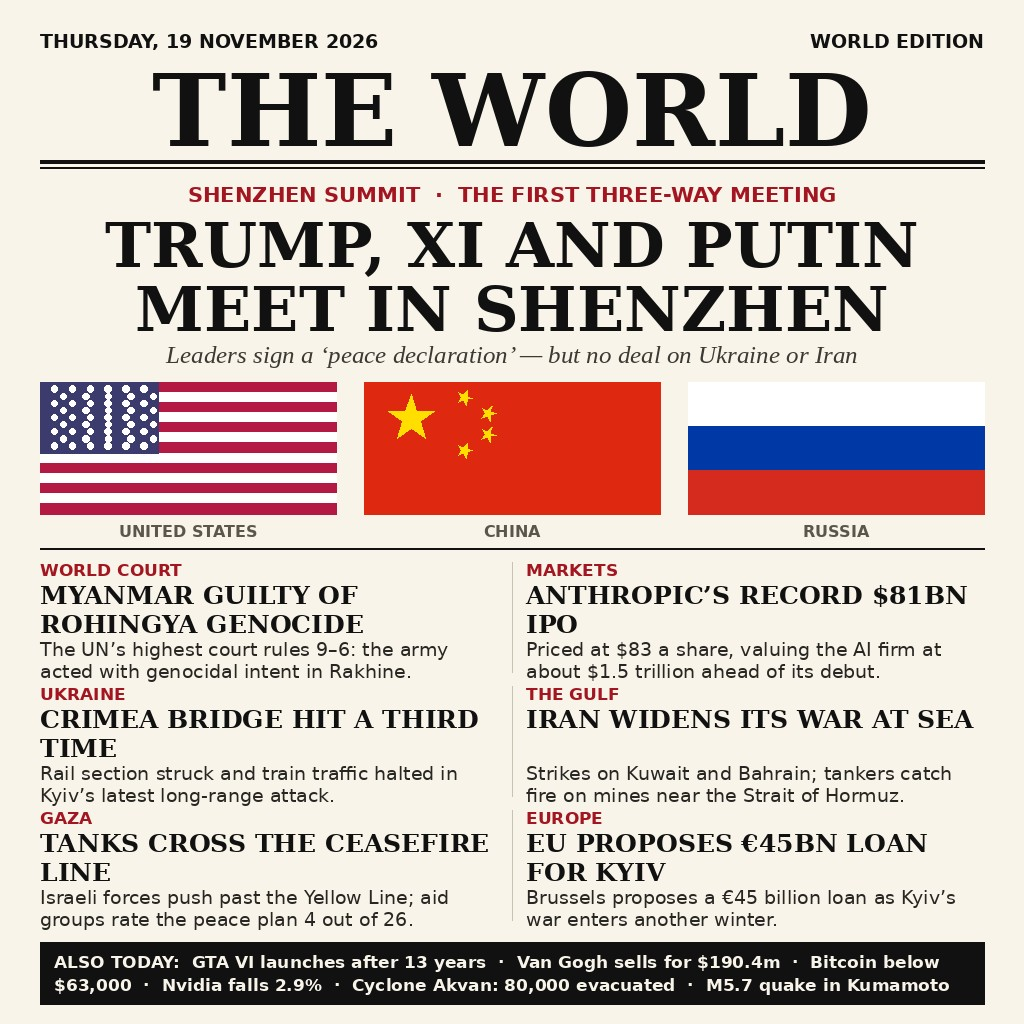
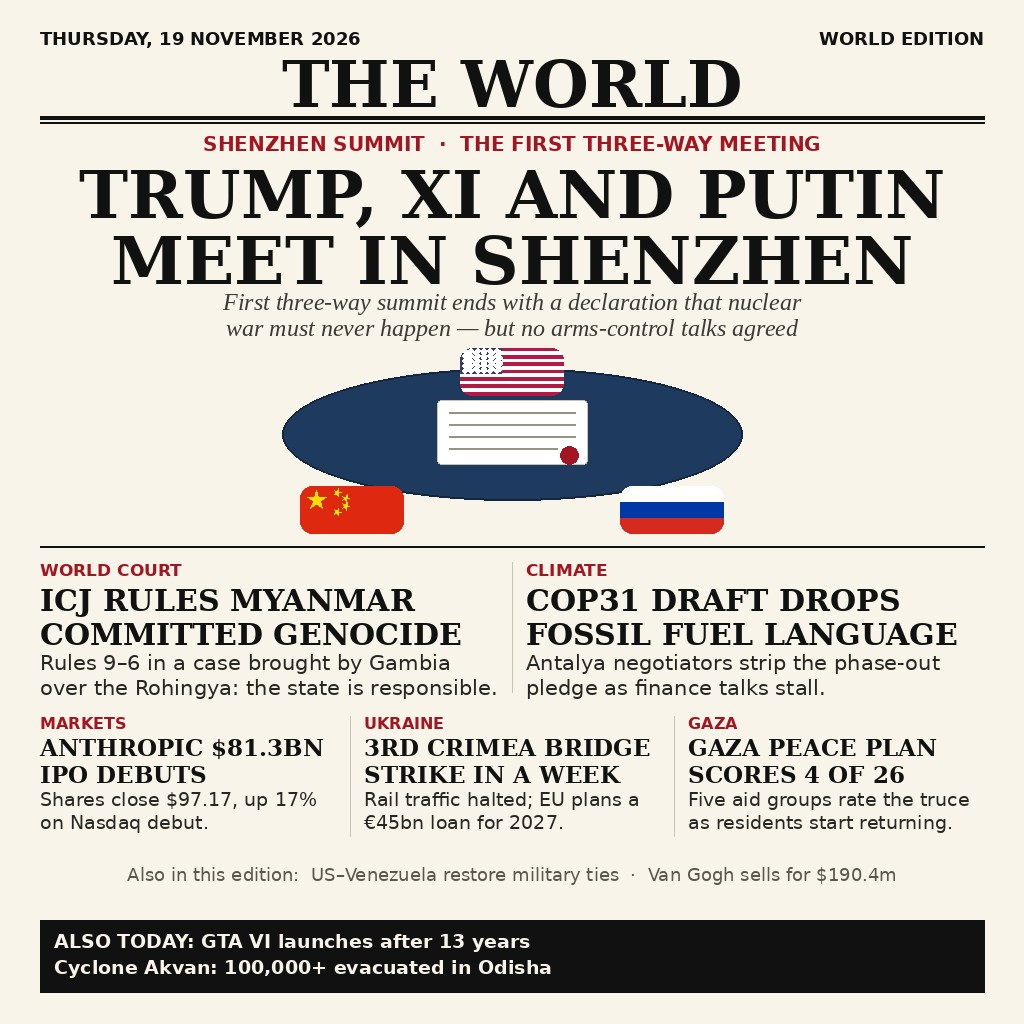
news-image-20261119 v2: 1+2+3 hierarchy, COP31 + Rohingya promoted, table illustration, corrected facts

diff --git a/gen_image.py b/gen_image.py
@@ -1,5 +1,11 @@
 #!/usr/bin/env python3
-"""Generate entry.png: a newspaper front page summing up Thursday 19 November 2026.
+"""Generate entry.png (v2): a newspaper front page summing up Thursday 19 November 2026.
+
+Design: smaller masthead so the lead wins; the summit is shown as one editorial
+illustration (a round table seen from above, three flag-coloured chairs, a
+declaration sheet in the middle) instead of three flag panels; hierarchy 1 + 2 + 3
+(one lead, two secondary stories, three short summaries); every headline carries
+the development, not just the topic; a two-item ticker.
 
 Deterministic: fixed strings, fixed geometry, no randomness, no network.
 Saves JPEG data (quality 90) under the name entry.png, under 1 MiB, 1024x1024.
@@ -44,6 +50,13 @@ def wrap(draw, text, fnt, max_width):
     return lines
 
 
+def fit(draw, text, fnt, max_width):
+    """wrap() that refuses to ship a truncated line: max 2 lines, or fail loudly."""
+    lines = wrap(draw, text, fnt, max_width)
+    assert len(lines) <= 2, f"text overflows 2 lines: {text!r} -> {lines}"
+    return lines
+
+
 def center(draw, y, text, fnt, fill=INK, width=W):
     draw.text(((width - draw.textlength(text, font=fnt)) / 2, y), text, font=fnt, fill=fill)
 
@@ -57,34 +70,37 @@ def star_points(cx, cy, r_outer, r_inner, rot=-90.0):
     return pts
 
 
-def draw_us_flag(draw, x, y, w, h):
-    stripe = h / 13.0
-    for i in range(13):
-        c = (179, 25, 66) if i % 2 == 0 else (255, 255, 255)
-        draw.rectangle([x, y + i * stripe, x + w, y + (i + 1) * stripe], fill=c)
-    cw, ch = w * 0.4, stripe * 7
-    draw.rectangle([x, y, x + cw, y + ch], fill=(60, 59, 110))
-    for row in range(9):
-        n = 6 if row % 2 == 0 else 5
-        for col in range(n):
-            cx = x + cw * (0.12 + 0.76 * col / 5.0) if n == 6 else x + cw * (0.20 + 0.76 * col / 4.0)
-            cy = y + ch * (0.10 + 0.80 * row / 8.0)
-            r = 3.2
-            draw.ellipse([cx - r, cy - r, cx + r, cy + r], fill=(255, 255, 255))
-
-
-def draw_cn_flag(draw, x, y, w, h):
-    draw.rectangle([x, y, x + w, y + h], fill=(222, 41, 16))
-    yellow = (255, 222, 0)
-    draw.polygon(star_points(x + w * 0.16, y + h * 0.28, 24, 24 * 0.382), fill=yellow)
-    for sx, sy, sr in [(0.34, 0.12, 8), (0.42, 0.24, 8), (0.42, 0.40, 8), (0.34, 0.52, 8)]:
-        draw.polygon(star_points(x + w * sx, y + h * sy, sr, sr * 0.382, rot=-70), fill=yellow)
-
-
-def draw_ru_flag(draw, x, y, w, h):
-    third = h / 3.0
-    for i, c in enumerate([(255, 255, 255), (0, 57, 166), (213, 43, 30)]):
-        draw.rectangle([x, y + i * third, x + w, y + (i + 1) * third], fill=c)
+def flag_tile(w, h, kind):
+    """A chair tile (w x h) painted with one country's flag, rounded corners."""
+    tile = Image.new("RGB", (w, h))
+    d = ImageDraw.Draw(tile)
+    if kind == "us":
+        stripe = h / 13.0
+        for i in range(13):
+            c = (179, 25, 66) if i % 2 == 0 else (255, 255, 255)
+            d.rectangle([0, i * stripe, w, (i + 1) * stripe], fill=c)
+        cw, ch = w * 0.4, stripe * 7
+        d.rectangle([0, 0, cw, ch], fill=(60, 59, 110))
+        for row in range(9):
+            n = 6 if row % 2 == 0 else 5
+            for col in range(n):
+                cx = cw * (0.12 + 0.76 * col / 5.0) if n == 6 else cw * (0.20 + 0.76 * col / 4.0)
+                cy = ch * (0.10 + 0.80 * row / 8.0)
+                r = 2.6
+                d.ellipse([cx - r, cy - r, cx + r, cy + r], fill=(255, 255, 255))
+    elif kind == "cn":
+        d.rectangle([0, 0, w, h], fill=(222, 41, 16))
+        d.polygon(star_points(w * 0.16, h * 0.30, 10, 10 * 0.382), fill=(255, 222, 0))
+        for sx, sy, sr in [(0.36, 0.14, 4), (0.44, 0.26, 4), (0.44, 0.42, 4), (0.36, 0.54, 4)]:
+            d.polygon(star_points(w * sx, h * sy, sr, sr * 0.382, rot=-70), fill=(255, 222, 0))
+    else:  # ru
+        third = h / 3.0
+        for i, c in enumerate([(255, 255, 255), (0, 57, 166), (213, 43, 30)]):
+            d.rectangle([0, i * third, w, (i + 1) * third], fill=c)
+    mask = Image.new("L", (w, h), 0)
+    ImageDraw.Draw(mask).rounded_rectangle([0, 0, w - 1, h - 1], radius=12, fill=255)
+    tile.putalpha(mask)
+    return tile
 
 
 def main():
@@ -92,89 +108,115 @@ def main():
     d = ImageDraw.Draw(img)
     inner = W - 2 * MARGIN  # 944
 
-    # ---- masthead ----
-    f_top = font(SANS_B, 19)
-    d.text((MARGIN, 30), "THURSDAY, 19 NOVEMBER 2026", font=f_top, fill=INK)
+    # ---- masthead (smaller, so the lead wins) ----
+    f_top = font(SANS_B, 18)
+    d.text((MARGIN, 28), "THURSDAY, 19 NOVEMBER 2026", font=f_top, fill=INK)
     right = "WORLD EDITION"
-    d.text((W - MARGIN - d.textlength(right, font=f_top), 30), right, font=f_top, fill=INK)
-    f_mast = font(SERIF_B, 100)
-    center(d, 52, "THE WORLD", f_mast)
-    d.rectangle([MARGIN, 160, W - MARGIN, 163], fill=INK)
-    d.rectangle([MARGIN, 167, W - MARGIN, 168], fill=INK)
+    d.text((W - MARGIN - d.textlength(right, font=f_top), 28), right, font=f_top, fill=INK)
+    f_mast = font(SERIF_B, 64)
+    center(d, 46, "THE WORLD", f_mast)
+    d.rectangle([MARGIN, 116, W - MARGIN, 119], fill=INK)
+    d.rectangle([MARGIN, 122, W - MARGIN, 123], fill=INK)
 
     # ---- lead headline ----
-    f_kick = font(SANS_B, 21)
-    center(d, 182, "SHENZHEN SUMMIT  ·  THE FIRST THREE-WAY MEETING", f_kick, fill=RED)
-    f_head = font(SERIF_B, 62)
-    center(d, 208, "TRUMP, XI AND PUTIN", f_head)
-    center(d, 272, "MEET IN SHENZHEN", f_head)
-    f_sub = font(SERIF_I, 25)
-    sub = "Leaders sign a \u2018peace declaration\u2019 \u2014 but no deal on Ukraine or Iran"
-    center(d, 340, sub, f_sub, fill=(60, 58, 52))
+    f_kick = font(SANS_B, 20)
+    center(d, 132, "SHENZHEN SUMMIT  \u00b7  THE FIRST THREE-WAY MEETING", f_kick, fill=RED)
+    f_head = font(SERIF_B, 66)
+    center(d, 156, "TRUMP, XI AND PUTIN", f_head)
+    center(d, 222, "MEET IN SHENZHEN", f_head)
+    f_sub = font(SERIF_I, 24)
+    center(d, 288, "First three-way summit ends with a declaration that nuclear", f_sub, fill=(60, 58, 52))
+    center(d, 314, "war must never happen \u2014 but no arms-control talks agreed", f_sub, fill=(60, 58, 52))
 
-    # ---- three flags ----
-    fy, fw, fh = 382, 296, 132
-    gap = (inner - 3 * fw) // 2
-    draw_us_flag(d, MARGIN, fy, fw, fh)
-    draw_cn_flag(d, MARGIN + fw + gap, fy, fw, fh)
-    draw_ru_flag(d, MARGIN + 2 * (fw + gap), fy, fw, fh)
-    f_cap = font(SANS_B, 16)
-    for i, label in enumerate(["UNITED STATES", "CHINA", "RUSSIA"]):
-        cx = MARGIN + i * (fw + gap) + fw / 2
-        d.text((cx - d.textlength(label, font=f_cap) / 2, fy + fh + 8), label, font=f_cap, fill=GREY)
-    d.rectangle([MARGIN, 548, W - MARGIN, 549], fill=INK)
+    # ---- editorial illustration: round table from above ----
+    cx, cy, rx, ry = 512, 434, 230, 66
+    d.ellipse([cx - rx, cy - ry, cx + rx, cy + ry], fill=NAVY, outline=(20, 38, 62), width=2)
+    # declaration sheet on the table
+    d.rounded_rectangle([437, 400, 587, 464], radius=4, fill=(255, 255, 255), outline=(200, 194, 178), width=1)
+    for i, yy in enumerate((412, 424, 436, 448)):
+        d.line([449, yy, 575 - (18 if i == 3 else 0), yy], fill=(150, 146, 136), width=2)
+    d.ellipse([560, 446, 578, 464], fill=RED)
+    # three flag chairs around the table
+    chair_us = flag_tile(104, 48, "us")
+    chair_cn = flag_tile(104, 48, "cn")
+    chair_ru = flag_tile(104, 48, "ru")
+    img.paste(chair_us, (460, 348), chair_us)
+    img.paste(chair_cn, (300, 486), chair_cn)
+    img.paste(chair_ru, (620, 486), chair_ru)
+    d = ImageDraw.Draw(img)
+    d.rectangle([MARGIN, 546, W - MARGIN, 547], fill=INK)
 
-    # ---- story grid: 2 columns x 3 rows ----
-    stories = [
-        ("WORLD COURT", "MYANMAR GUILTY OF ROHINGYA GENOCIDE",
-         "The UN\u2019s highest court rules 9\u20136: the army acted with genocidal intent in Rakhine."),
-        ("MARKETS", "ANTHROPIC\u2019S RECORD $81BN IPO",
-         "Priced at $83 a share, valuing the AI firm at about $1.5 trillion ahead of its debut."),
-        ("UKRAINE", "CRIMEA BRIDGE HIT A THIRD TIME",
-         "Rail section struck and train traffic halted in Kyiv\u2019s latest long-range attack."),
-        ("THE GULF", "IRAN WIDENS ITS WAR AT SEA",
-         "Strikes on Kuwait and Bahrain; tankers catch fire on mines near the Strait of Hormuz."),
-        ("GAZA", "TANKS CROSS THE CEASEFIRE LINE",
-         "Israeli forces push past the Yellow Line; aid groups rate the peace plan 4 out of 26."),
-        ("EUROPE", "EU PROPOSES \u20ac45BN LOAN FOR KYIV",
-         "Brussels proposes a \u20ac45 billion loan as Kyiv\u2019s war enters another winter."),
+    # ---- two secondary stories ----
+    secondaries = [
+        ("WORLD COURT", "ICJ RULES MYANMAR COMMITTED GENOCIDE",
+         "Rules 9\u20136 in a case brought by Gambia over the Rohingya: the state is responsible."),
+        ("CLIMATE", "COP31 DRAFT DROPS FOSSIL FUEL LANGUAGE",
+         "Antalya negotiators strip the phase-out pledge as finance talks stall."),
     ]
     col_w = (inner - 28) // 2
     gx, gy = MARGIN, 560
-    row_h, col_gap = 124, 28
     f_skick = font(SANS_B, 17)
-    f_shead = font(SERIF_B, 25)
-    f_sbody = font(SANS, 19)
-    for idx, (kicker, headline, body) in enumerate(stories):
-        col, row = idx % 2, idx // 2
-        x = gx + col * (col_w + col_gap)
-        y = gy + row * row_h
+    f_shead = font(SERIF_B, 30)
+    f_sbody = font(SANS, 21)
+    for idx, (kicker, headline, body) in enumerate(secondaries):
+        x = gx + idx * (col_w + 28)
+        y = gy
         d.text((x, y), kicker, font=f_skick, fill=RED)
-        lines = wrap(d, headline, f_shead, col_w)[:2]
-        yy = y + 20
+        lines = fit(d, headline, f_shead, col_w)
+        yy = y + 22
         for ln in lines:
             d.text((x, yy), ln, font=f_shead, fill=INK)
-            yy += 29
-        blines = wrap(d, body, f_sbody, col_w)[:2]
-        yy = y + 20 + 2 * 29
+            yy += 34
+        blines = fit(d, body, f_sbody, col_w)
+        yy = y + 22 + 2 * 34
         for ln in blines:
             d.text((x, yy), ln, font=f_sbody, fill=(40, 38, 34))
-            yy += 22
-        if col == 0:
-            d.line([x + col_w + col_gap // 2, y + 2, x + col_w + col_gap // 2, y + row_h - 12], fill=(200, 194, 178), width=1)
+            yy += 25
+        if idx == 0:
+            d.line([x + col_w + 14, y + 2, x + col_w + 14, y + 132], fill=(200, 194, 178), width=1)
 
-    # ---- footer ticker ----
-    ty = 942
-    d.rectangle([MARGIN, ty, W - MARGIN, 1004], fill=INK)
-    f_tick = font(SANS_B, 17)
-    ticker = ("ALSO TODAY:  GTA VI launches after 13 years  \u00b7  Van Gogh sells for $190.4m  "
-              "\u00b7  Bitcoin below $63,000  \u00b7  Nvidia falls 2.9%  \u00b7  "
-              "Cyclone Akvan: 80,000 evacuated  \u00b7  M5.7 quake in Kumamoto")
-    tlines = wrap(d, ticker, f_tick, inner - 28)[:2]
-    yy = ty + 10
-    for ln in tlines:
-        d.text((MARGIN + 14, yy), ln, font=f_tick, fill=(248, 244, 233))
-        yy += 23
+    # ---- three short summaries ----
+    summaries = [
+        ("MARKETS", "ANTHROPIC $81.3BN IPO DEBUTS",
+         "Shares close $97.17, up 17% on Nasdaq debut."),
+        ("UKRAINE", "3RD CRIMEA BRIDGE STRIKE IN A WEEK",
+         "Rail traffic halted; EU plans a \u20ac45bn loan for 2027."),
+        ("GAZA", "GAZA PEACE PLAN SCORES 4 OF 26",
+         "Five aid groups rate the truce as residents start returning."),
+    ]
+    col3 = (inner - 2 * 28) // 3
+    sy = 714
+    f_tkick = font(SANS_B, 16)
+    f_thead = font(SERIF_B, 23)
+    f_tbody = font(SANS, 19)
+    for idx, (kicker, headline, body) in enumerate(summaries):
+        x = MARGIN + idx * (col3 + 28)
+        y = sy
+        d.text((x, y), kicker, font=f_tkick, fill=RED)
+        lines = fit(d, headline, f_thead, col3)
+        yy = y + 20
+        for ln in lines:
+            d.text((x, yy), ln, font=f_thead, fill=INK)
+            yy += 27
+        blines = fit(d, body, f_tbody, col3)
+        yy = y + 20 + 2 * 27
+        for ln in blines:
+            d.text((x, yy), ln, font=f_tbody, fill=(40, 38, 34))
+            yy += 23
+        if idx < 2:
+            d.line([x + col3 + 14, y + 2, x + col3 + 14, y + 122], fill=(200, 194, 178), width=1)
+
+    # ---- also in this edition ----
+    f_also = font(SANS, 18)
+    center(d, 864, "Also in this edition:  US\u2013Venezuela restore military ties  \u00b7  Van Gogh sells for $190.4m",
+           f_also, fill=GREY)
+
+    # ---- footer ticker: two items, two lines ----
+    ty = 920
+    d.rectangle([MARGIN, ty, W - MARGIN, 992], fill=INK)
+    f_tick = font(SANS_B, 19)
+    d.text((MARGIN + 14, ty + 10), "ALSO TODAY: GTA VI launches after 13 years", font=f_tick, fill=(248, 244, 233))
+    d.text((MARGIN + 14, ty + 36), "Cyclone Akvan: 100,000+ evacuated in Odisha", font=f_tick, fill=(248, 244, 233))
 
     out = Path(__file__).parent / "entry.png"
     img.save(out, format="JPEG", quality=90, optimize=True)

diff --git a/README.md b/README.md
@@ -1,27 +1,36 @@
-# WORLD NEWS — Thursday 19 November 2026
+# THE WORLD — Thursday 19 November 2026 (v2)
 
 A newspaper front page summing up the day's world news, as an image.
 
 ## The day in one page
 
-- **Trump, Xi and Putin meet in Shenzhen** — the first three-way summit ends with a
-  "peace declaration", but no deal on Ukraine or Iran.
-- **World Court: Myanmar guilty of Rohingya genocide** — the ICJ rules 9–6.
-- **Anthropic's record $81bn IPO** — priced at $83 a share, about a $1.5 trillion valuation.
-- **Ukraine hits the Crimea bridge a third time** — rail traffic halted.
-- **Iran widens its war at sea** — strikes on Kuwait and Bahrain, tankers hit mines near Hormuz.
-- **Israeli tanks cross the Gaza ceasefire line** — aid groups rate the peace plan 4 out of 26.
-- **EU proposes a €45bn loan for Kyiv.**
-- Also: GTA VI launches after 13 years, a Van Gogh sells for $190.4m, Bitcoin below
-  $63,000, Nvidia falls 2.9%, Cyclone Akvan evacuates 80,000 in Odisha, a M5.7 quake
-  hits Kumamoto.
+- **Trump, Xi and Putin meet in Shenzhen** — the first three-way summit ends with
+  a declaration that nuclear war must never happen, but no arms-control talks
+  are agreed.
+- **ICJ rules Myanmar committed genocide** — the World Court rules 9–6 in a case
+  brought by Gambia over the Rohingya; the state is responsible.
+- **COP31 draft drops fossil fuel language** — Antalya negotiators strip the
+  phase-out pledge from the draft as finance talks stall.
+- **Anthropic's $81.3bn IPO debuts** — shares close at $97.17, up 17% on the
+  Nasdaq; the largest IPO on record.
+- **Third Crimea bridge strike in a week** — rail traffic halted; the EU plans a
+  €45bn loan for 2027.
+- **Gaza peace plan scores 4 of 26** — five aid groups rate the truce as
+  residents start returning.
+- Also: GTA VI launches after 13 years, Cyclone Akvan evacuates 100,000+ in
+  Odisha, US–Venezuela restore military ties, a Van Gogh sells for $190.4m.
 
 ## How it is made
 
-`gen_image.py` draws the front page with Pillow (masthead, headline, the three
-leaders' flags, six story blocks, a news ticker) and saves it as `entry.png`
-(JPEG data, 1024×1024, under 1 MiB). `main.py` copies that image to
-`/output/entry.png`. Both are deterministic: same bytes every run.
+`gen_image.py` draws the front page with Pillow and saves it as `entry.png`
+(JPEG data, 1024×1024, under 1 MiB). v2 changes: a smaller masthead so the lead
+wins; the summit shown as one editorial illustration (a round table seen from
+above, three flag-coloured chairs, a declaration sheet in the middle) instead
+of three flag panels; a 1 + 2 + 3 hierarchy (one lead, two secondary stories,
+three short summaries); every headline carries the development, not just the
+topic; a two-item ticker. A `fit()` guard refuses to ship any headline or body
+longer than two lines. `main.py` copies that image to `/output/entry.png`.
+Both are deterministic: same bytes every run.
 
 ## Run
 
